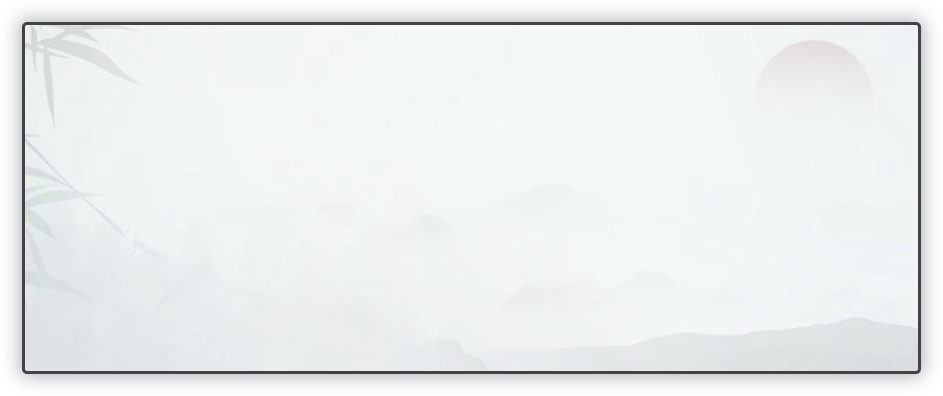
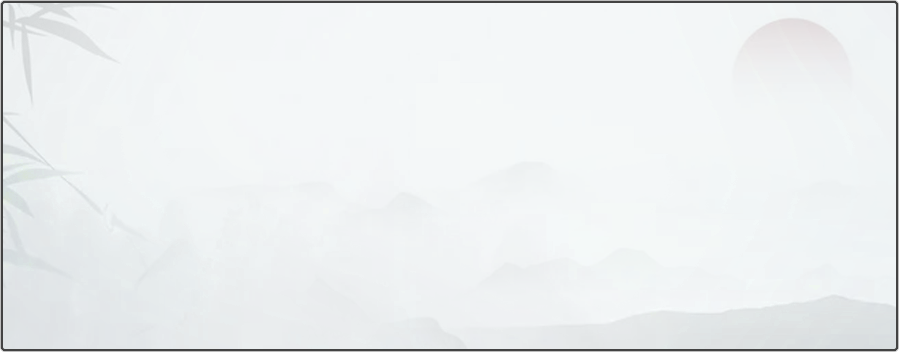
修改确认弹窗背景图

Changed region(s): [[0.0, 0.0, 1.0, 1.0]]

diff --git a/app/components/dialog/ConfirmDialog.js b/app/components/dialog/ConfirmDialog.js
@@ -50,7 +50,7 @@ class ConfirmDialog extends React.Component {
             <SafeAreaView style={{ flex: 1, zIndex: 999999 }}>
                 <View style={{ flex: 1, justifyContent: 'center', alignItems: 'center' }}>
                     <View style={{ width: 320, justifyContent: 'center', alignItems: 'center', borderRadius: 3 }}>
-                        <ImageBackground style={{ width: px2pd(934), height: px2pd(396) }} source={this.context.dialogBg_1_img}>
+                        <ImageBackground style={{ width: px2pd(899), height: px2pd(352) }} source={this.context.dialogBg_1_img}>
                             <ImageCapInset
                                 style={{ width: '100%', height: '100%', position: 'absolute', }}
                                 source={this.context.dialogBorder_1_img}
